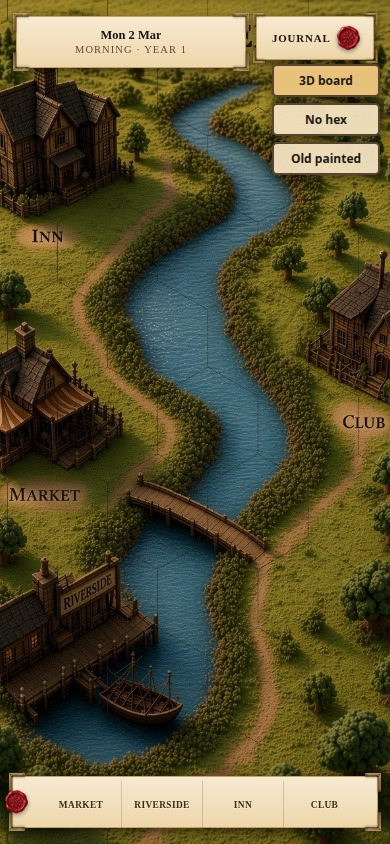
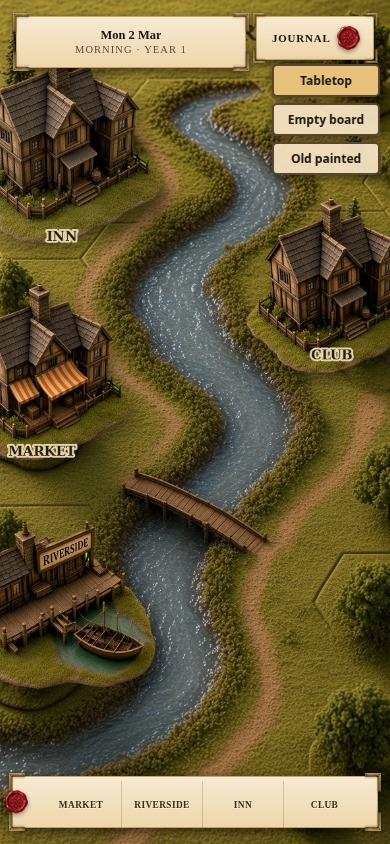
Sit resin landmark models on a flat flocked hex board.
Backdrop is a wargame turf slab with hex grout and a resin river. Inn, Market, Club, and Riverside sit on it as separate miniatures, not as part of a drawing.

diff --git a/mockups/lythmere-hex-screen/index.html b/mockups/lythmere-hex-screen/index.html
@@ -33,7 +33,7 @@
   }
   .townScene{
     position:absolute;inset:0;z-index:0;
-    background:#2a241e url("./07-diorama-aligned.jpg") center / cover no-repeat;
+    background:#2a241e url("./08-tabletop.jpg") center / cover no-repeat;
   }
   #hudLayer{position:absolute;inset:0;z-index:40;pointer-events:none}
   .worldTopbar{
@@ -132,8 +132,8 @@
     </nav>
   </div>
   <div id="paints">
-        <button type="button" data-file="./07-diorama-aligned.jpg" aria-pressed="true">3D board</button>
-        <button type="button" data-file="./07-diorama-town.jpg">No hex</button>
+        <button type="button" data-file="./08-tabletop.jpg" aria-pressed="true">Tabletop</button>
+        <button type="button" data-file="./08-empty-board.jpg">Empty board</button>
         <button type="button" data-file="./05-empty-aligned.jpg">Old painted</button>
   </div>
 </section>
@@ -145,7 +145,7 @@ function paint(file){
   buttons.forEach(b => b.setAttribute("aria-pressed", b.dataset.file === file ? "true" : "false"));
 }
 buttons.forEach(b => b.addEventListener("click", () => paint(b.dataset.file)));
-paint("./07-diorama-aligned.jpg");
+paint("./08-tabletop.jpg");
 </script>
 </body>
 </html>

diff --git a/mockups/lythmere-hex-screen/README.md b/mockups/lythmere-hex-screen/README.md
@@ -1,5 +1,5 @@
 # Full-screen hex Lythmere (look-test)
 
-Overworld rebuilt as one 3D tabletop diorama of Lythmere (flocked grass, miniature trees, chunky timber locations). Same layout as the painted board: Inn, Market, Riverside, Club. NPCs live at locations, not on this map.
+Flat flocked hex wargame board. Inn, Market, Club, and Riverside are physical miniature models sitting on the turf — not painted into the landscape.
 
-Open `index.html`. Paints: 3D board / No hex / Old painted.
+Open `index.html`. Paints: Tabletop / Empty board / Old painted.
